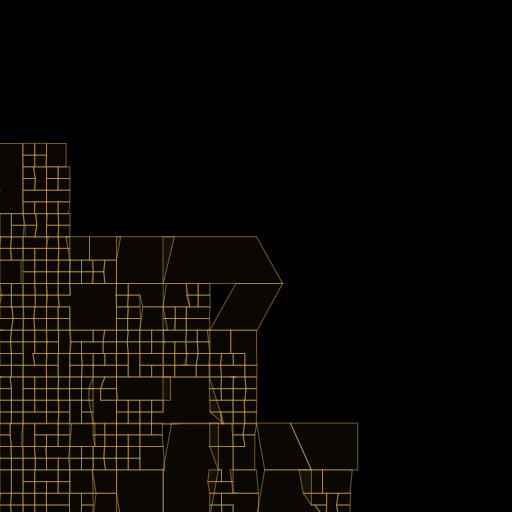
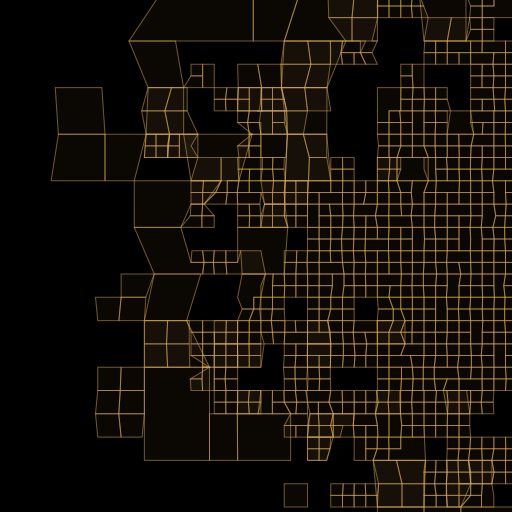
fixing crappy grid subdivision issue

Changed region(s): [[0.0, 0.0, 1.0, 1.0], [0.2812, 0.0, 0.3125, 0.0312]]

diff --git a/lib/increase-grid-density.ts b/lib/increase-grid-density.ts
@@ -1,4 +1,5 @@
 import logger = require('../util/logger/index');
+import subdivideSquare = require('./subdivide-square');
 
 const _ = require('lodash'),
     alea = require('alea'),
@@ -6,12 +7,10 @@ const _ = require('lodash'),
     turfExtent = require('turf-extent'),
     turfPointGrid = require('turf-point-grid'),
     turfPoint = require('turf-point'),
-    turfSquareGrid = require('turf-square-grid'),
     turfArea = require('turf-area'),
     turfFeatureCollection = require('turf-featurecollection'),
     turfDistance = require('turf-distance'),
     turfCentroid = require('turf-centroid'),
-    traverse = require('traverse'),
     shortid = require('shortid');
 
 function increaseGridDensity(opts: IGenerateCityOpts, basePoly: GeoJSON.Feature): GeoJSON.FeatureCollection {
@@ -103,19 +102,8 @@ function increaseGridDensity(opts: IGenerateCityOpts, basePoly: GeoJSON.Feature)
             return unsubdividedPoly;
         }
 
-        const polyAreaMeters = turfArea(poly),
-            // This assumes that the poly is a square.
-            polySideLengthMeters = Math.sqrt(polyAreaMeters),
-            polyRadiusMeters = polySideLengthMeters / 2,
-            subdivided = turfSquareGrid(extent, polyRadiusMeters / 1000, 'kilometers'),
-            subdividedWithProperties = traverse(subdivided).map(function(node: any) {
-                if (this.key === 'properties') {
-                    this.update(_.merge({}, node, poly.properties, {
-                        id: shortid.generate()
-                    }), true);
-                }
-            }),
-            recursivelySubdividedFeatures = _(subdividedWithProperties.features)
+        const subdivided = subdivideSquare(poly, () => ({id: shortid.generate()})),
+            recursivelySubdividedFeatures = _(subdivided)
                 .map(
                     (subdividedPoly: GeoJSON.Feature) =>
                         increaseGridDensityRec(subdividedPoly, subdivisionLevel + 1).features

diff --git a/test/unit/subdivide-square.ts b/test/unit/subdivide-square.ts
@@ -1,0 +1,65 @@
+/// <reference path="../../typings/tsd.d.ts" />
+
+import '../../types';
+import '../types';
+import logger = require('../../util/logger/index');
+import subdivideSquare = require('../../lib/subdivide-square');
+
+const tape = require('tape'),
+    _ = require('lodash'),
+    turfFeatureCollection = require('turf-featurecollection'),
+    geoJsonHint = require('geojsonhint'),
+    turfPolygon = require('turf-polygon');
+
+tape('subdivideSquare', function(t: IT) {
+    t.test('subdivide square', function(t: IT) {
+        t.plan(6);
+        const basePoly = turfPolygon([[
+                [-1, -1],
+                [-1, 1],
+                [1, 1],
+                [1, -1],
+                [-1, -1]
+            ]]),
+            subdivided = subdivideSquare(basePoly, _.noop),
+            geoJsonErrors = geoJsonHint.hint(turfFeatureCollection(subdivided));
+
+        logger.debug({subdivided}, 'got subdivided squares');
+
+        t.deepEqual(geoJsonErrors, [], 'valid geojson is produced');
+
+        t.equal(subdivided.length, 4, 'creates 4 sub squares');
+
+        t.deepEqual(subdivided[0].geometry.coordinates, [[
+            [-1, -1],
+            [-1, 0],
+            [0, 0],
+            [0, -1],
+            [-1, -1]
+        ]], 'first square has correct coords');
+
+        t.deepEqual(subdivided[1].geometry.coordinates, [[
+            [-1, 0],
+            [-1, 1],
+            [0, 1],
+            [0, 0],
+            [-1, 0]
+        ]], 'second square has correct coords');
+
+        t.deepEqual(subdivided[2].geometry.coordinates, [[
+            [0, 0],
+            [0, 1],
+            [1, 1],
+            [1, 0],
+            [0, 0]
+        ]], 'third square has correct coords');
+
+        t.deepEqual(subdivided[3].geometry.coordinates, [[
+            [0, -1],
+            [0, 0],
+            [1, 0],
+            [1, -1],
+            [0, -1]
+        ]], 'fourth square has correct coords');
+    });
+});

diff --git a/lib/subdivide-square.ts b/lib/subdivide-square.ts
@@ -1,0 +1,31 @@
+const turfExtent = require('turf-extent'),
+    turfPolygon = require('turf-polygon'),
+    _ = require('lodash');
+
+function subdivideSquare(square: GeoJSON.Feature, getProps: () => Object): GeoJSON.Feature[] {
+    const [west, south, east, north]: number[] = turfExtent(square),
+        nsLen = (north - south) / 2,
+        ewLen = (east - west) / 2;
+
+    function makeSquare(startX: number, startY: number): number[][][] {
+        return [[
+                [startX, startY],
+                [startX, startY + ewLen],
+                [startX + nsLen, startY + ewLen],
+                [startX + nsLen, startY],
+                [startX, startY]
+            ]];
+    }
+
+    return _([
+            [south, west],
+            [south, west + ewLen],
+            [south + nsLen, west + ewLen],
+            [south + nsLen, west],
+        ])
+        .map(([startX, startY]: number[]) => makeSquare(startX, startY))
+        .map((coords: number[][][]) => turfPolygon(coords, getProps()))
+        .value();
+}
+
+export = subdivideSquare;

diff --git a/test/unit/increase-grid-density.ts b/test/unit/increase-grid-density.ts
@@ -50,7 +50,7 @@ tape('increaseGridDensity', function(t: IT) {
                 }, []),
             sortedPoints = _.sortByAll(uniquePoints, (point: number[]) => point[0], (point: number[]) => point[1]);
 
-        logger.debug({points, sortedPoints}, 'found unique points');
+        logger.debug({points, uniquePoints, sortedPoints, streetGrid}, 'found unique points');
 
         t.deepEqual(sortedPoints, [
             [-1, -1],
@@ -62,6 +62,6 @@ tape('increaseGridDensity', function(t: IT) {
             [1, -1],
             [1, 0],
             [1, 1],
-        ], 'the unique points in the grid are generated correctly');
+        ], 'the unique points in the grid are generated correctly   ');
     });
 });
